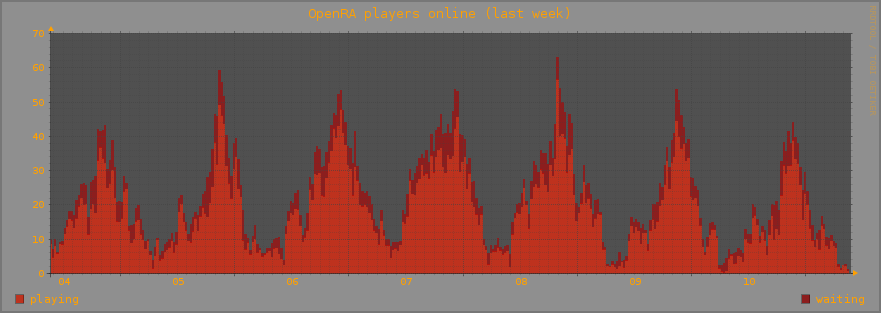
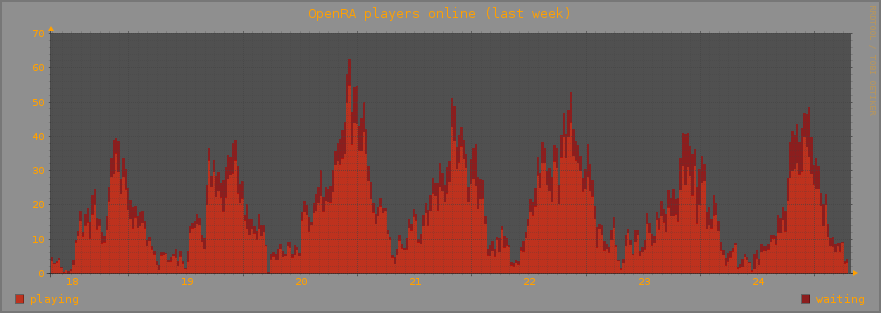
update db

diff --git a/log/redraw.ts b/log/redraw.ts
@@ -1,1 +1,1 @@
-2015-11-11 09:16:07
+2015-11-25 07:26:06
